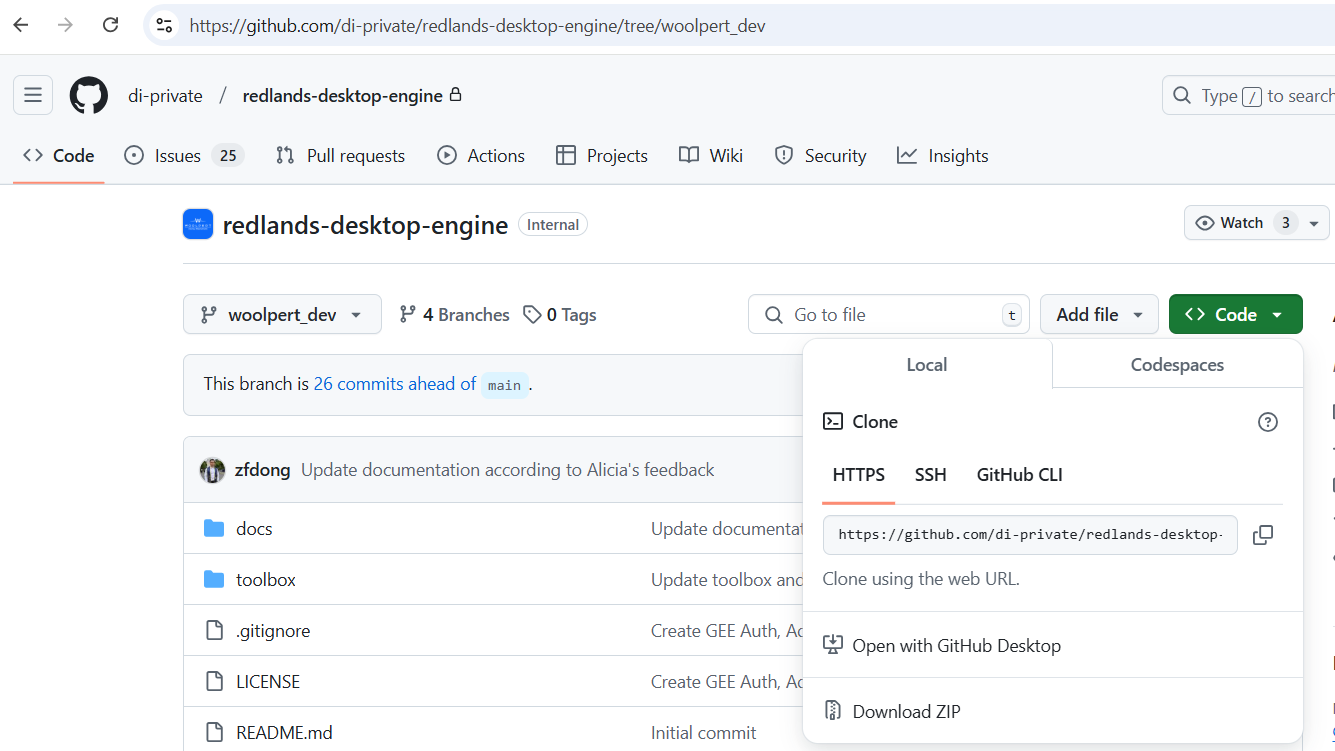
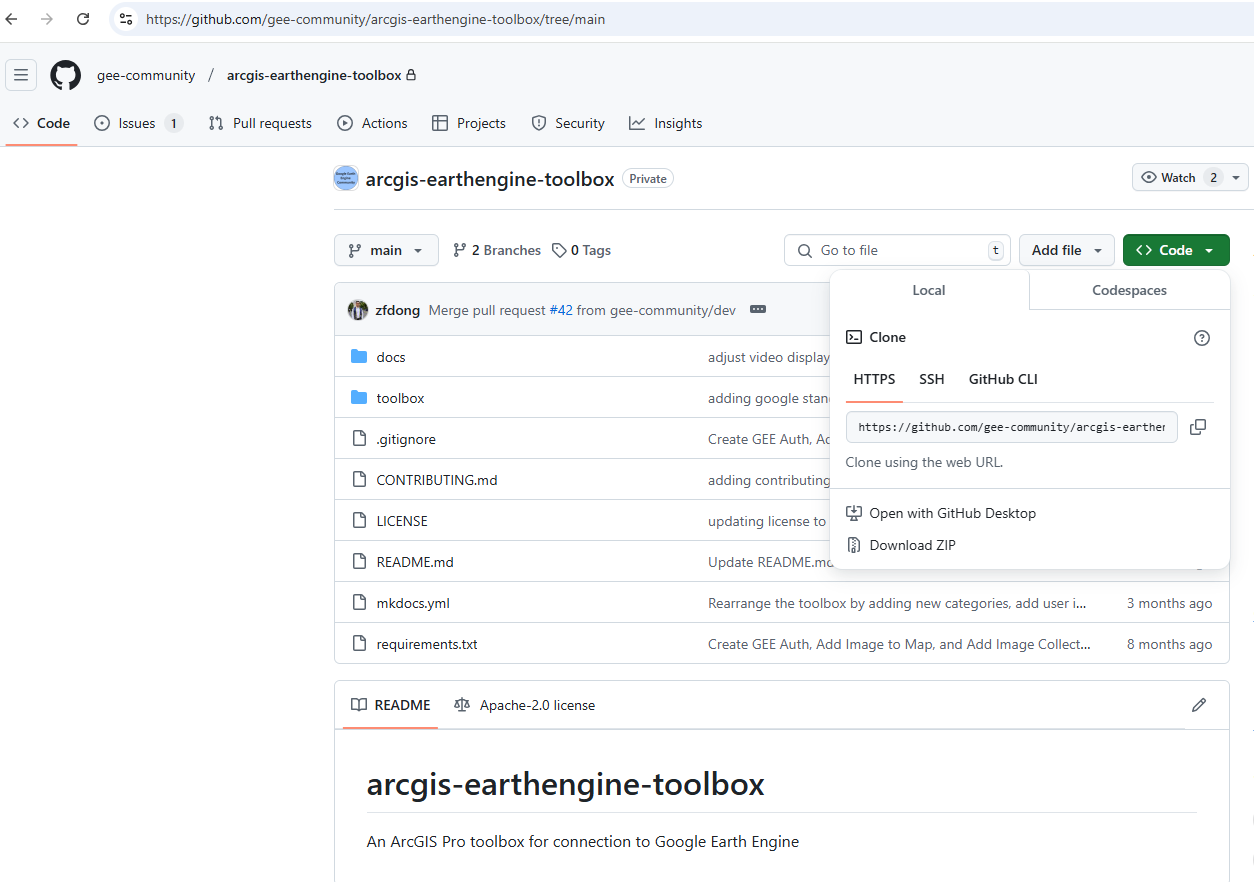
update GEE authentication instructions

diff --git a/toolbox/arcgee/data.py b/toolbox/arcgee/data.py
@@ -1,11 +1,11 @@
 # Copyright 2025 Google LLC
-# 
+#
 # Licensed under the Apache License, Version 2.0 (the "License");
 # you may not use this file except in compliance with the License.
 # You may obtain a copy of the License at
-# 
+#
 #     https://www.apache.org/licenses/LICENSE-2.0
-# 
+#
 # Unless required by applicable law or agreed to in writing, software
 # distributed under the License is distributed on an "AS IS" BASIS,
 # WITHOUT WARRANTIES OR CONDITIONS OF ANY KIND, either express or implied.
@@ -24,8 +24,20 @@ import requests
 import numpy as np
 import json
 
-# ArcGEE version
+# Import version from parent package
+# from arcgee import __version__
+
 __version__ = "0.0.1"
+
+
+def get_version_info():
+    """
+    Returns version information about the GEE Connector.
+
+    Returns:
+        str: A formatted string with version information
+    """
+    return f"GEE Connector v{__version__}"
 
 
 def auth(project=None):

diff --git a/toolbox/arcgee/__init__.py b/toolbox/arcgee/__init__.py
@@ -1,11 +1,11 @@
 # Copyright 2025 Google LLC
-# 
+#
 # Licensed under the Apache License, Version 2.0 (the "License");
 # you may not use this file except in compliance with the License.
 # You may obtain a copy of the License at
-# 
+#
 #     https://www.apache.org/licenses/LICENSE-2.0
-# 
+#
 # Unless required by applicable law or agreed to in writing, software
 # distributed under the License is distributed on an "AS IS" BASIS,
 # WITHOUT WARRANTIES OR CONDITIONS OF ANY KIND, either express or implied.
@@ -15,5 +15,9 @@
 import arcgee.map as map
 import arcgee.data as data
 
-VERSION = "0.1.0"
-
+# ArcGEE version
+# __version__ = "0.0.1"
+__all__ = ["map", "data"]
+__author__ = "Google LLC"
+__license__ = "Apache 2.0"
+__copyright__ = "Copyright 2025 Google LLC"

diff --git a/docs/installation.md b/docs/installation.md
@@ -67,17 +67,17 @@ Here is the video guide for the Conda environment setup:
 </div>
 
 
-## Download ArcGEE Connector Toolbox
+## Download the GEE Connector Toolbox
 
-The ArcGEE Connector Toolbox can be obtained through the following steps:
+The GEE Connector can be obtained through the following steps:
 
 ![Alt Text](images/DownloadToolbox.png)
 
-1. Download the repository from this [link](https://github.com/di-private/redlands-desktop-engine/tree/woolpert_dev) using either method:
+1. Download the repository from this [link](https://github.com/gee-community/arcgis-earthengine-toolbox/tree/main) using either method:
    - Clone the repository using git: `git clone https://github.com/di-private/redlands-desktop-engine.git`
    - Or download as ZIP file and extract it to your desired location
 
-   You can download the repository folder to your ArcPro project folder such as `C:\Users\<username>\Documents\ArcGIS\Projects\<project_name>\ArcGEE Connector Toolbox`. Meanwhile, you can also download the repository folder to any other location and connect it to ArcPro. 
+   You can download the repository folder to your ArcPro project folder such as `C:\Users\<username>\Documents\ArcGIS\Projects\<project_name>\GEE Connector`. Meanwhile, you can also download the repository folder to any other location and connect it to ArcPro. 
 
 2. Add the toolbox to ArcPro:
    - Open ArcPro
@@ -90,15 +90,20 @@ The ArcGEE Connector Toolbox can be obtained through the following steps:
 ![Alt Text](images/GEE_toolbox.png)
 
 
+
 ## Google Cloud SDK
 
-Google Cloud SDK is required to fully utilize the ArcGEE Connector Toolbox. Specifically, it is used to upload local data to Google Cloud Storage and convert the data to Earth Engine Image objects. 
+Google Cloud SDK is required to fully utilize the GEE Connector. Specifically, it is used to upload local data to Google Cloud Storage and convert the data to Earth Engine assets.
+
+### Downloading Google Cloud SDK 
+
+Please check this [link](https://cloud.google.com/sdk/docs/install) for instructions of downloading the Google Cloud SDK.     
 
 To install the Google Cloud SDK, admin permissions are often required, especially on systems where the SDK needs to modify system files or be installed for all users. It's also possible to install the SDK without admin rights if you install it in a user-specific directory. 
 
 Admin rights are typically only required during installation. Most gcloud commands and operations can be performed without admin rights, provided the user has the correct permissions within Google Cloud.
 
-When Google Cloud SDK is installed, the Google Cloud default credentials may affect Google Earth Engine authentication through ArcGEE Connector Toolbox. Therefore, it is recommended to modify Google Cloud default credentials to be consistent with the target Google project for Earth Engine. To achieve this, follow the steps below.
+**When Google Cloud SDK is installed, the Google Earth Engine authentication will use Google Cloud Application Default Credentials.** Therefore, the user needs to setup the Google Cloud Application Default Credentials before using Earth Engine. To achieve this, follow the steps below.
 
 ### Finding Your Google Cloud Project ID
 Before proceeding, you'll need your Google Cloud Project ID. To find it:
@@ -116,40 +121,18 @@ The Google Cloud SDK shell (commonly referred to as the gcloud command-line inte
 
 1. In Windows OS, search for "Google Cloud SDK Shell", click to open. To run the Google Cloud SDK Shell as administrator, right-click on the Google Cloud SDK Shell, and select **Run as administrator**. 
 
-   **For the first time setup, skip Step 2 and Step 3, go to Step 4.**
-
-2. Check the active Google account using:
-   ```
-   gcloud auth list
-   ```
-   Make sure the account aligns with the target Google project for Earth Engine. If you need to switch to another account, run:
-   ```
-   gcloud auth login
-   ```
-   A browser window will open asking you to choose the target Google account for Earth Engine.
-
-3. Check the active Google project using:
-   ```
-   gcloud config list
-   ```
-   Verify that the project ID matches your target Google project for Earth Engine. To switch to a different project, run:
-   ```
-   gcloud config set project YOUR_PROJECT_ID
-   ```
-   Replace `YOUR_PROJECT_ID` with the Project ID you found in the Google Cloud Console.
-
-4. For the first time setup, authenticate to create the `application_default_credentials.json` file using:
+2. Authenticate application default login to create the `application_default_credentials.json` file using:
    ```
    gcloud auth application-default login
    ```
-   A browser window will pop up asking you to choose the target Google account and project.
+   A web browser window will pop up asking you to choose the target Google account. Follow the instructions from the web browser to complete the authentication.
    
-   For the existing setup, update the `application_default_credentials.json` file using:
+   To set a specific project ID after application default login, use the command below:
    ```
    gcloud auth application-default set-quota-project QUOTA_PROJECT_ID
    ```
-   Replace `QUOTA_PROJECT_ID` with the Project ID you found in the Google Cloud Console.
+   Replace `QUOTA_PROJECT_ID` with the target project ID. Then the `application_default_credentials.json` file will be updated accordingly. 
 
    **Note:** The `application_default_credentials.json` file is usually located in the `C:\Users\<username>\AppData\Roaming\gcloud` directory.
 
-   After this, when you run `ee.Initialize()`, it will automatically use the default project specified in the `application_default_credentials.json` file.
+   After you successfully authenticate the application default login, your Google Earth Engine is already authenticated. When you run `ee.Initialize()`, it will automatically use the default project ID specified in the `application_default_credentials.json` file.

diff --git a/docs/index.md b/docs/index.md
@@ -1,11 +1,14 @@
-# ArcGIS Earth Engine Connector
-An ArcPro Python toolbox for connection to Google Earth Engine (GEE) through the GEE Python API.
+# GEE Connector
+An ArcPro Python toolbox for connection to Google Earth Engine (GEE) through the Earth Engine Python API.
 
 ## Introduction 
-ArcGIS Earth Engine Connector is a Python toolbox for ArcGIS that seamlessly connects the Google Earth Engine Python API with ArcPro. This integration empowers ArcGIS users to explore, download, analyze, and visualize an extensive repository of Google Earth Engine datasets directly within ArcPro, while also enabling the upload of local datasets to Google Earth Engine assets. ArcGIS Earth Engine Connector provides a powerful, no-code solution for big data analytics, combining the strengths of both platforms for an enhanced, efficient workflow.
+GEE Connector seamlessly connects the Google Earth Engine Python API with ArcPro. This integration empowers ArcGIS users to explore, download, analyze, and visualize an extensive repository of Google Earth Engine datasets directly within ArcPro, while also enabling the upload of local datasets to Google Earth Engine assets. GEE Connector provides a powerful, no-code solution for big data analytics, combining the strengths of both platforms for an enhanced, efficient workflow.
   
 
 ## Key Features
+
+In the current version, GEE Connector provides a set of tools organized into four main categories to help you work with Google Earth Engine data within ArcGIS Pro. These tools enable authentication, data exploration, data management, and advanced processing capabilities without requiring coding knowledge. Below is a complete list of the available tools:
+
  - Authentication Tools
     - Authenticate Earth Engine
     - Check or Change Project ID
@@ -24,10 +27,11 @@ ArcGIS Earth Engine Connector is a Python toolbox for ArcGIS that seamlessly con
     - Download Image by Asset ID
     - Download Image by Serialized Object 
     - Download Image Collection by Asset ID
+    - Download Image Collection by Asset ID at Multiple Regions
     - Download Image Collection by Serialized Object
     - Download Image Collection to GIF
     - Save Earth Engine Asset to Serialized JSON File
-    - Upload File(s) to Goolge Cloud Storage and Convert to Earth Engine Asset
+    - Upload File(s) to Cloud Storage and Convert to Earth Engine Asset
  - Data Processing Tools
     - Apply Filters to Collection Dataset by Asset ID
     - Apply Filters to Collection Dataset by Serialized Object

diff --git a/docs/instruction.md b/docs/instruction.md
@@ -1,12 +1,12 @@
-# ArcGEE Connector User Guide
+# GEE Connector User Guide
 
 ## Introduction
 
-This user guide provides instructions for using the ArcGEE Connector, a Python toolbox that allows users to interact with Google Earth Engine (GEE) from ArcGIS Pro. The toolbox provides a set of tools for managing Earth Engine assets, downloading and uploading data, and processing data using Earth Engine's API.
+This user guide provides instructions for using the GEE Connector, a Python toolbox that allows users to interact with Google Earth Engine (GEE) from ArcGIS Pro. The toolbox provides a set of tools for exploring, downloading and uploading, and processing the dataset using Earth Engine Python API.
 
 ## Prerequisites
 
-Before using the ArcGEE Connector, ensure you have the following:
+Before using the toolbox, ensure you have the following:
 
 1. ArcGIS Pro installed on your computer.
 2. Google Earth Engine API enabled for your Google Cloud project.
@@ -79,11 +79,13 @@ A section displays any messages generated during execution, such as progress upd
 
 4. Environment Settings:
 
-Users can modify environment settings like processing extents, output coordinate systems, and cell sizes through an additional expandable menu. **Environment settings are unnecessary for the ArcGEE Connector.**
+Users can modify environment settings like processing extents, output coordinate systems, and cell sizes through an additional expandable menu. **Environment settings are unnecessary for the GEE Connector.**
 
 ## Authentication Tools
 
 ### Authenticate Earth Engine
+
+**Note: If you have already installed Google Cloud SDK, you will need to set up the application default login for Earth Engine authentication. To do this, go to Installation.md and follow the instructions. This script is for users who do not have Google Cloud SDK.**
 
 This script authenticates the use of Google Earth Engine with provided Google account. **The user only needs to run this script once on the same computer.** 
 
